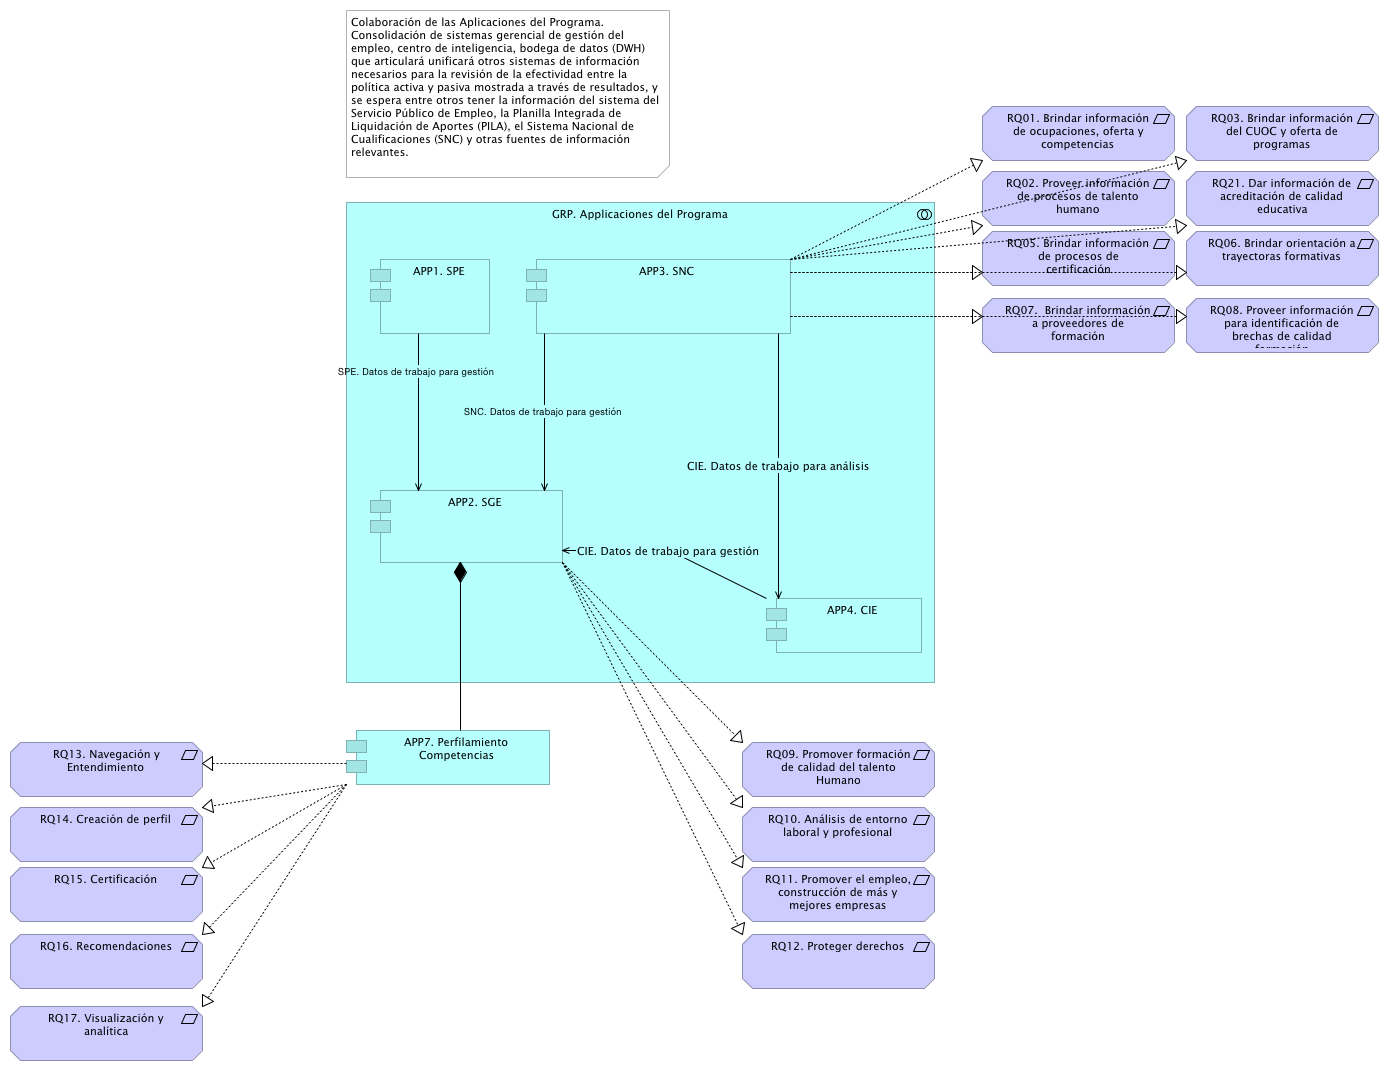
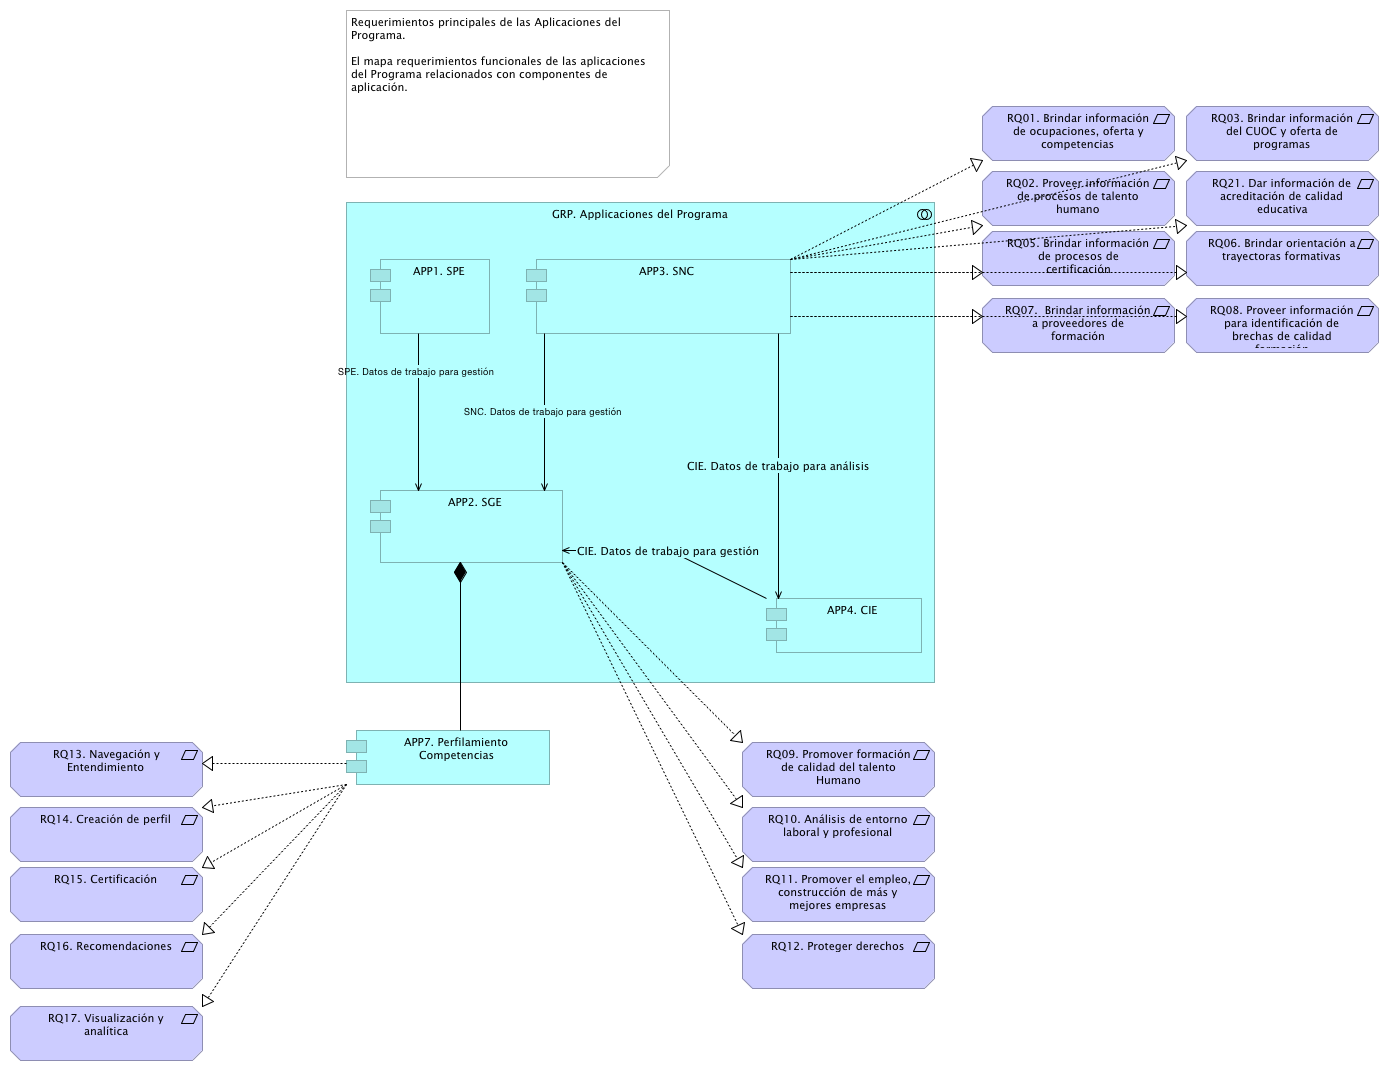
reqr y rept html

Changed region(s): [[0.2477, 0.0, 0.4644, 0.1541]]

diff --git a/id-911a4eb2-ea1e-406a-9382-faf4f96b0183/objects/fb7330ed-97bf-481c-9498-f4ef0f093246.html b/id-911a4eb2-ea1e-406a-9382-faf4f96b0183/objects/fb7330ed-97bf-481c-9498-f4ef0f093246.html
@@ -45,9 +45,9 @@
 				<!-- Tab panes -->
 				<div class="tab-content">
 					<div role="tabpanel" class="tab-pane active" id="documentation">
-						<textarea id="docsrc" style="display:none">Colaboraci&#243;n de las Aplicaciones del Programa.
-Consolidaci&#243;n de sistemas gerencial de gesti&#243;n del empleo, centro de inteligencia, bodega de datos (DWH) que articular&#225; unificar&#225; otros sistemas de informaci&#243;n necesarios para la revisi&#243;n de la efectividad entre la pol&#237;tica activa y pasiva mostrada a trav&#233;s de resultados, y se espera entre otros tener la informaci&#243;n del sistema del Servicio P&#250;blico de Empleo, la Planilla Integrada de Liquidaci&#243;n de Aportes (PILA), el Sistema Nacional de Cualificaciones (SNC) y otras fuentes de informaci&#243;n relevantes.
-</textarea>
+						<textarea id="docsrc" style="display:none">Requerimientos principales de las Aplicaciones del Programa.
+
+El mapa requerimientos funcionales de las aplicaciones del Programa relacionados con componentes de aplicaci&#243;n.</textarea>
 						<div id="doctgt" style="white-space:pre-wrap"></div>
 					</div>
 					<div role="tabpanel" class="tab-pane" id="properties">
